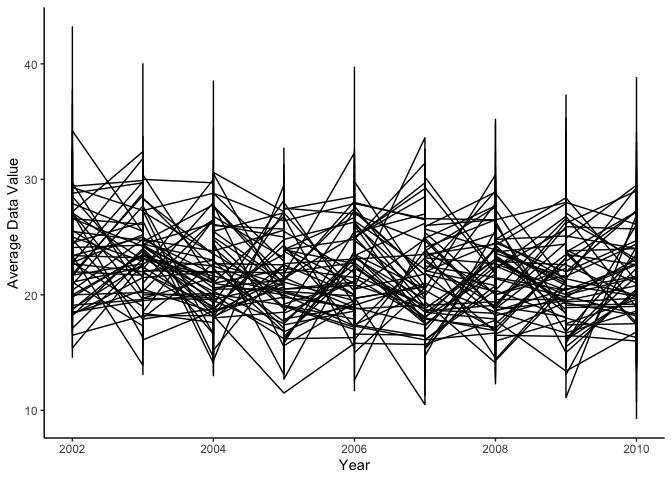
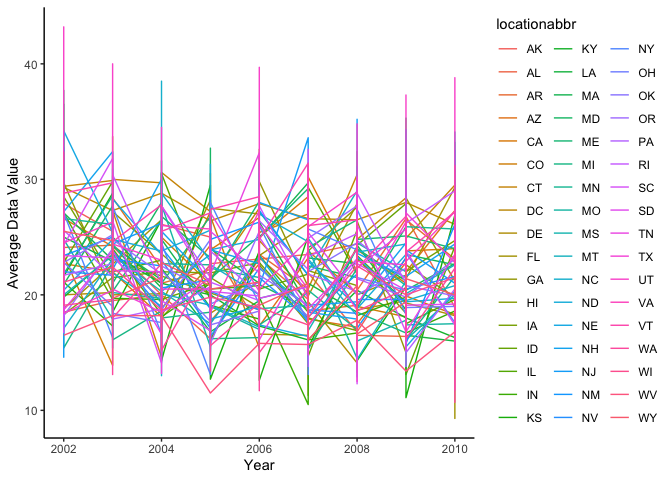
last commit

diff --git a/p8105_hw3_zc2443.md b/p8105_hw3_zc2443.md
@@ -173,7 +173,7 @@ brfss_smart2010 %>%
   group_by(year, locationabbr, locationdesc) %>% 
   summarize(avg_data_value = mean(data_value)) %>% #caculate the mean value across group
   select(year, locationabbr, locationdesc, avg_data_value) %>% 
-  ggplot(aes(x = year, y = avg_data_value)) + geom_line(aes(group = locationabbr)) + 
+  ggplot(aes(x = year, y = avg_data_value, color = locationabbr)) + geom_line(aes(group = locationabbr)) + 
   theme_classic() + labs(x = "Year", y = "Average Data Value") #make a spaghetti plot
 ```
 
@@ -182,24 +182,18 @@ brfss_smart2010 %>%
 We can see…a “spaghetti” plot…it is messy
 
 ``` r
-plot2006 = brfss_smart2010 %>% 
-  filter(year == 2006, response %in% c("Excellent", "Very good", "Good", "Fair","Poor"), locationabbr == "NY") %>% 
-  ggplot(aes(x = response, y = data_value)) + geom_boxplot() +
-  labs(x = "Response", y = "Data Value", title = "2006") 
-
-plot2010 = brfss_smart2010 %>% 
-  filter(year == 2010, response %in% c("Excellent", "Very good", "Good", "Fair","Poor"), locationabbr == "NY") %>% 
-  ggplot(aes(x = response, y = data_value)) + geom_boxplot() +
-  labs(x = "Response", y = "Data Value", title = "2010")
-
-plot2006 + plot2010
+brfss_smart2010 %>% 
+  filter(year %in% c(2006,2010), response %in% c("Excellent", "Very good", "Good", "Fair","Poor"), locationabbr == "NY") %>% 
+  ggplot(aes(x = locationdesc, y = data_value, fill = response)) + geom_bar(stat = "identity", position = position_stack(reverse = TRUE)) + coord_flip() +
+  viridis::scale_fill_viridis(discrete = TRUE) +
+  labs(x = "Locations", y = "Percentage", title = "2006 vs. 2010") +
+  facet_grid(~year)
 ```
 
 ![](p8105_hw3_zc2443_files/figure-gfm/unnamed-chunk-9-1.png)<!-- -->
 
 We can see that the distribution of data value across five responses
-group of NY are almost the same for 2006 and 2010. However, the data
-value for fair response is generally higher in 2006 compared to 2010.
+group of NY are almost the same for 2006 and 2010 among each location.
 
 ## Question 3
 
